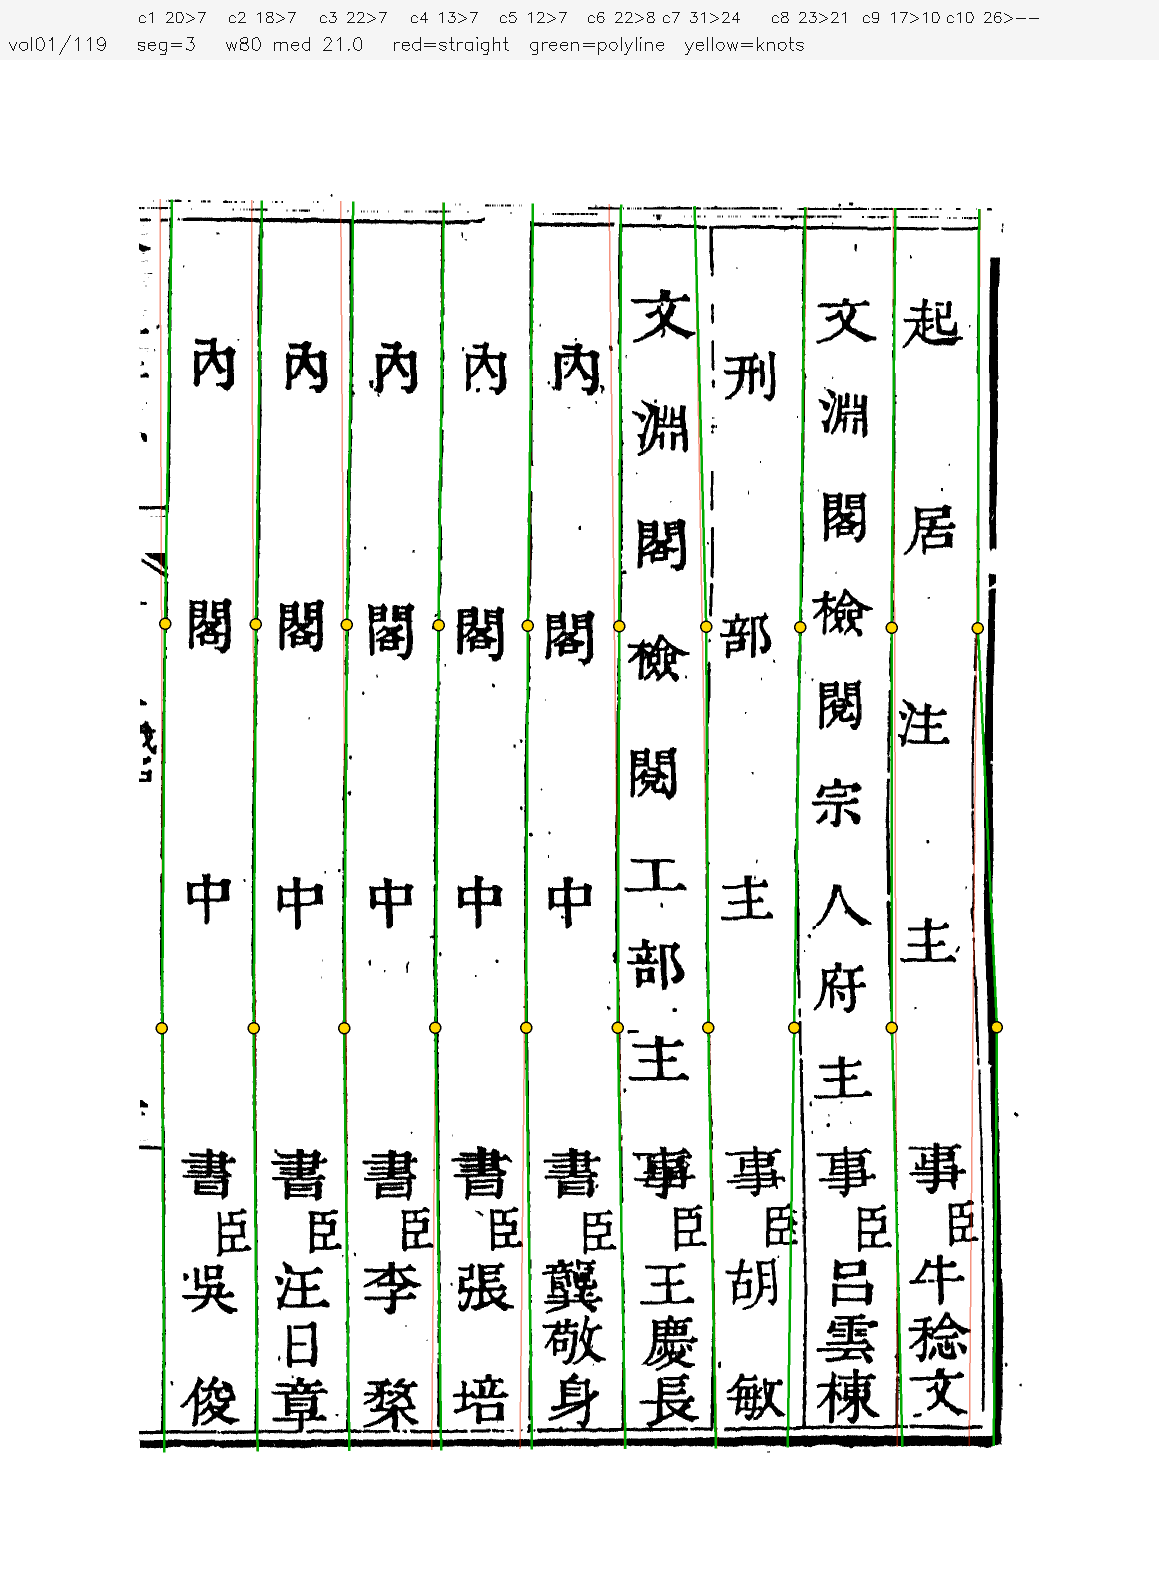
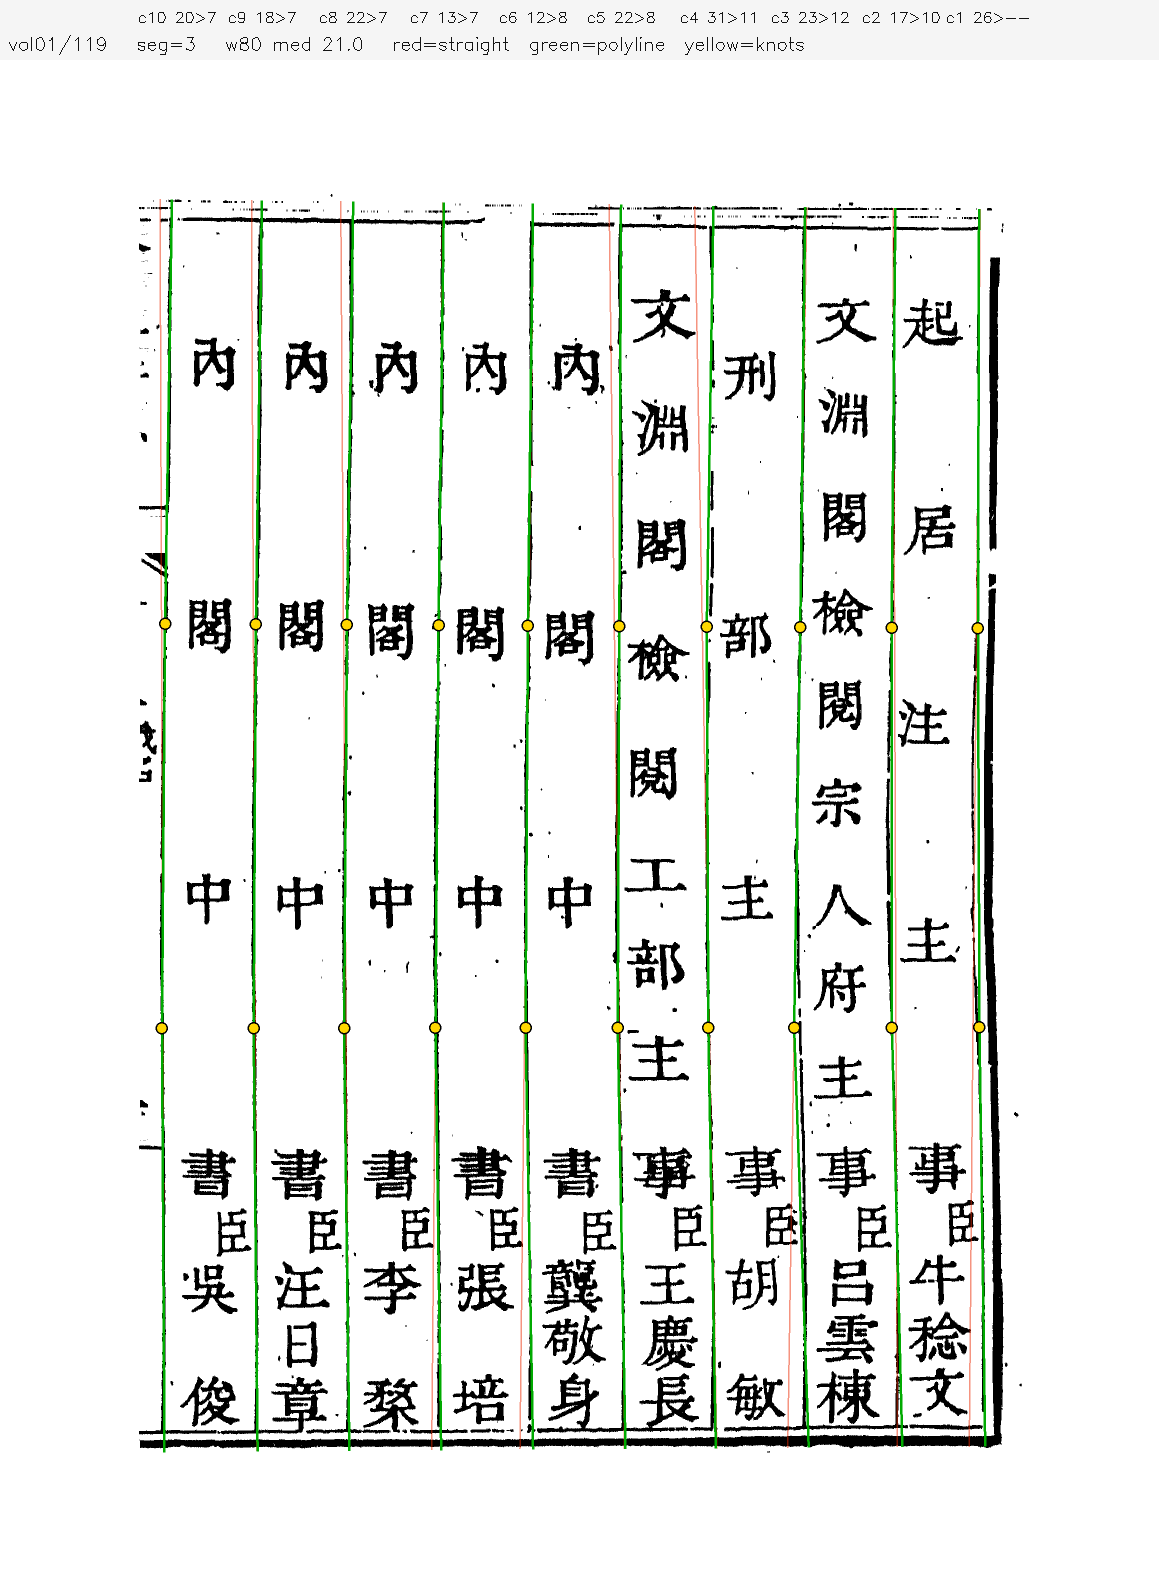
折点搜索半径 24→40 + 拟合失败线借同页折点位移；叠图编号改回从右到左
用户逐段裁决 3 页 90 段，approved 83/90，点名 7 段不对。根因两种：

1. **折点搜索半径不够**（vol01/119 L3 段3、L4 段1）。真墨离直线中位 23px（到 33）
   和 18.5px（到 55），KNOT_SEARCH=24 够不着。扫 24/40/60 定 40：这两段
   w80 19→15、22→13，离真墨 24→8px、28→7px；60 再无收益（收敛），对照页
   vol01/151、11、24、vol02/95 一个数没变。邻列界行相距 ~183px，40 不会跳到隔壁。

2. **窗口里压着两条线状墨带**（vol01/11 L1、119 L1，都是最右框线）。内框细线 +
   外框粗条一起落进窗口，合起来墨宽中位 17~21px，被 BEND_INK_W_MAX=9 全剔掉，
   有效行只剩 83/1185 和 46/1197，低于 BEND_MIN_ROWS 就退回直线、根本没拟合。
   补救：拟合失败的线借**同页已拟合线的折点位移中位数**——同一页的线是一起弯的
   （纸张/雕版形变是整页的），这个先验比退回直线强得多。119 L1 段3 由此从离真墨
   20px 修到 1px。

叠图脚本编号修正：原来按 x_old 升序标号 = 从左到右，跟项目约定（从右到左、
verticals[0] 最右）正好反着，跟用户对不上话。已改成直接用 verticals 顺序。

新增 scripts/export_vline_polyline_gold.py 导出逐段金标（含 approved 标记）。
46 passed。

Claude-Session: https://claude.ai/code/session_019hXJZqYz2HFpVTev7R4VKF

Changed region(s): [[0.8387, 0.4317, 0.8697, 0.8943], [0.5902, 0.1233, 0.6212, 0.4009], [0.6833, 0.6784, 0.7144, 0.7709]]

diff --git a/scripts/export_vline_polyline_gold.py b/scripts/export_vline_polyline_gold.py
@@ -1,0 +1,92 @@
+# -*- coding: utf-8 -*-
+"""把三段折线的拟合结果导成金标 JSON（人裁认可的线/段才标 approved）。
+
+    python scripts/export_vline_polyline_gold.py 11 119 151
+
+线号**从右到左、从 1 开始**，跟 `BorderDetectionResult.verticals` 的顺序一致
+（`verticals[0]` 最右）。每条线记：
+  `polyline`  {x_at_top, slope, k2, k3, y1, y2}  —— 三段折线参数
+  `straight`  {x_at_top, slope}                  —— 拟合前的直线，量"改前"用
+  `segments`  逐段 {w80, peak}                   —— 该段贴真墨的程度
+  `approved`  逐段 true/false                    —— 人裁：这一段对不对
+写 `open-guji-dataset/border-detection/vline-polyline/<book>_<page>.json`。
+"""
+from __future__ import annotations
+
+import argparse
+import json
+import os
+import sys
+from pathlib import Path
+
+import cv2
+import numpy as np
+
+ROOT = Path(__file__).resolve().parent.parent
+sys.path.insert(0, str(ROOT))
+from open_guji_cv.utils.border_geometry import detect_borders, gutter_projection  # noqa: E402
+
+RAW = Path(os.environ.get("GUJI_RAW", "/home/user/rebuild_src"))
+OUT = ROOT.parent / "open-guji-dataset" / "border-detection" / "vline-polyline"
+
+# 人裁结果（用户 2026-09-02 看逐列叠图给的）：线号从右数，列出**不对**的段。
+# 没列进来的线/段 = 用户明确说"其他所有线都很完美"。
+REJECTED: dict[tuple[str, str], dict[int, list[int]]] = {
+    ("vol01", "11"): {1: [1, 2, 3]},          # 整条线位置就错（列距 155 vs 183），见 README
+    ("vol01", "119"): {1: [2, 3], 3: [3], 4: [1]},
+    ("vol01", "151"): {},
+}
+
+
+def main() -> int:
+    ap = argparse.ArgumentParser(description=__doc__.split("\n")[0])
+    ap.add_argument("pages", nargs="+")
+    ap.add_argument("--book", default="vol01")
+    a = ap.parse_args()
+    OUT.mkdir(parents=True, exist_ok=True)
+    for page in a.pages:
+        gray = cv2.imread(str(RAW / a.book / f"{page}.tif"), cv2.IMREAD_GRAYSCALE)
+        if gray is None:
+            print(f"{a.book}/{page}: 原图缺失"); continue
+        h, w = gray.shape
+        binm = (gray < 128).astype(np.uint8)
+        res = detect_borders(gray, expected_cols=9)
+        rej = REJECTED.get((a.book, page), {})
+        lines = []
+        for no, (s, p) in enumerate(zip(res.verticals_straight, res.verticals), 1):
+            xc = p.x_at(h / 2.0)
+            yt, yb = float(res.top.y_at(xc)), float(res.bottom.y_at(xc))
+            ky = [yt] + p.knots() + [yb]
+            segs = []
+            for i, (aa, bb) in enumerate(zip(ky, ky[1:]), 1):
+                g = gutter_projection(binm, p.x_at, int(aa) + 10, int(bb) - 10, w)
+                segs.append(dict(seg=i,
+                                 w80=None if g is None else int(g[2]),
+                                 peak=None if g is None else round(float(g[0]), 3),
+                                 approved=i not in rej.get(no, [])))
+            lines.append(dict(
+                no=no,
+                polyline=dict(x_at_top=round(p.x_at_top, 4), slope=round(p.slope, 6),
+                              k2=None if p.k2 is None else round(p.k2, 6),
+                              k3=None if p.k3 is None else round(p.k3, 6),
+                              y1=None if p.y1 is None else round(p.y1, 2),
+                              y2=None if p.y2 is None else round(p.y2, 2)),
+                straight=dict(x_at_top=round(s.x_at_top, 4), slope=round(s.slope, 6)),
+                segments=segs))
+        doc = dict(book=a.book, page=page, width=w, height=h,
+                   coord_space="new: origin top-right, x leftward, y down; 线号从右到左从1开始",
+                   vline_segments=res.vline_segments,
+                   bend_w80_med=res.bend_w80_med, bend_w80_max=res.bend_w80_max,
+                   label_origin="human", labeled_at="2026-09-02",
+                   note="用户看逐列叠图逐段裁决；approved=false 的段见 README",
+                   lines=lines)
+        path = OUT / f"{a.book}_{page}.json"
+        path.write_text(json.dumps(doc, ensure_ascii=False, indent=1), encoding="utf-8")
+        ok = sum(1 for L in lines for sg in L["segments"] if sg["approved"])
+        tot = sum(len(L["segments"]) for L in lines)
+        print(f"{path}  approved {ok}/{tot} 段")
+    return 0
+
+
+if __name__ == "__main__":
+    raise SystemExit(main())

diff --git a/open_guji_cv/utils/border_geometry.py b/open_guji_cv/utils/border_geometry.py
@@ -531,7 +531,12 @@ BEND_W80_MED = 7.0        # 页级 w80 中位 >= 这个 => 整页三段。
                           # 射影；每条线另有"折线得分不比直线高就退回"的保险。
 BEND_W80_MAX = 24.0       # 或任一条线 w80 >= 这个（单条线跑飞的那一型：vol01/11
                           # 页级中位只有 9.5 但单条到 64，只看中位会漏）
-KNOT_SEARCH = 24          # 每个折点在直线估计的 ±这么多 px 里找
+KNOT_SEARCH = 40          # 每个折点在直线估计的 ±这么多 px 里找。
+                          # 24 不够：vol01/119 L3 段3 真墨离直线中位 23px（到 33）、
+                          # L4 段1 中位 18.5px（到 55），折点够不着。扫 24/40/60：
+                          # 40 把这两段从 w80 19/22 修到 15/13，60 再无收益（已收敛），
+                          # 对照页 vol01/151、11、24、vol02/95 一个数都没变。
+                          # 邻列界行相距 ~183px，40 不会跳到隔壁。
 KNOT_PASSES = 3           # 坐标下降轮数（实测 2 轮已收敛，第 3 轮保险）
 
 
@@ -627,6 +632,15 @@ def _aligned(binm: np.ndarray, rows: np.ndarray, xs: np.ndarray, w: int) -> int:
     return total
 
 
+def _from_knots(kx: list[float], ky: list[float]) -> VLine:
+    """四个折点 x + 四个折点 y -> (x, k1, k2, k3)，精确等价。"""
+    k1 = (kx[1] - kx[0]) / (ky[1] - ky[0])
+    k2 = (kx[2] - kx[1]) / (ky[2] - ky[1])
+    k3 = (kx[3] - kx[2]) / (ky[3] - ky[2])
+    return VLine(x_at_top=float(kx[0] - k1 * ky[0]), slope=float(k1),
+                 k2=float(k2), k3=float(k3), y1=float(ky[1]), y2=float(ky[2]))
+
+
 def fit_vlines_polyline(mask: np.ndarray, top: HLine, bottom: HLine,
                         verticals: list[VLine], w: int, h: int
                         ) -> tuple[list[VLine], int, float | None, float | None]:
@@ -659,8 +673,8 @@ def fit_vlines_polyline(mask: np.ndarray, top: HLine, bottom: HLine,
     if w80_med < BEND_W80_MED and w80_max < BEND_W80_MAX:
         return verticals, 1, w80_med, w80_max
 
-    out = []
-    for v in verticals:
+    out, shifts, failed = [], [], []
+    for vi, v in enumerate(verticals):
         xc = v.x_at(h / 2.0)
         yt, yb = float(top.y_at(xc)), float(bottom.y_at(xc))
         if yb - yt < 400:
@@ -672,6 +686,7 @@ def fit_vlines_polyline(mask: np.ndarray, top: HLine, bottom: HLine,
         rows_all, _ = _rule_rows(binm, v.x_at, int(yt), int(yb), w)
         if len(rows_all) < BEND_MIN_ROWS:
             out.append(VLine(v.x_at_top, v.slope, v.slope, v.slope, ky[1], ky[2]))
+            failed.append(vi)
             continue
 
         def seg_rows(i):
@@ -707,11 +722,22 @@ def fit_vlines_polyline(mask: np.ndarray, top: HLine, bottom: HLine,
         if new_score <= base_score:
             out.append(VLine(v.x_at_top, v.slope, v.slope, v.slope, ky[1], ky[2]))
             continue
-        k1 = (kx[1] - kx[0]) / (ky[1] - ky[0])
-        k2 = (kx[2] - kx[1]) / (ky[2] - ky[1])
-        k3 = (kx[3] - kx[2]) / (ky[3] - ky[2])
-        out.append(VLine(x_at_top=float(kx[0] - k1 * ky[0]), slope=float(k1),
-                         k2=float(k2), k3=float(k3), y1=float(ky[1]), y2=float(ky[2])))
+        shifts.append([kx[j] - v.x_at(ky[j]) for j in range(4)])
+        out.append(_from_knots(kx, ky))
+
+    # 拟合失败的线（有效行不够）借同页已拟合线的折点位移——**同一页的线是一起
+    # 弯的**（纸张/雕版形变是整页的），这个先验比"退回直线"强得多。
+    # 治的是最外侧那两条框线：窗口里同时压着内框细线和外框粗条，合起来墨宽
+    # 中位 17~21px，被 BEND_INK_W_MAX 全剔掉，有效行只剩 83/1185（vol01/11 L1）
+    # 和 46/1197（vol01/119 L1）。
+    if shifts and failed:
+        med = np.median(np.array(shifts), axis=0)
+        for i in failed:
+            v = verticals[i]
+            xc = v.x_at(h / 2.0)
+            yt, yb = float(top.y_at(xc)), float(bottom.y_at(xc))
+            ky = [yt, yt + (yb - yt) / 3.0, yt + 2.0 * (yb - yt) / 3.0, yb]
+            out[i] = _from_knots([v.x_at(ky[j]) + med[j] for j in range(4)], ky)
     return out, 3, w80_med, w80_max
 
 

diff --git a/scripts/draw_polyline_overlay.py b/scripts/draw_polyline_overlay.py
@@ -1,6 +1,7 @@
 # -*- coding: utf-8 -*-
 """整页叠图看每一列的折线效果：红=拟合前直线，绿=三段折线，黄点=折点，
-每列顶上标该列 w80 直线→折线（装下 80% 墨的最窄 x 跨度，越小越贴）。
+每条线顶上标 w80 直线→折线（装下 80% 墨的最窄 x 跨度，越小越贴）。
+线号**从右到左、从 1 开始**，跟 `verticals` 的顺序一致。
 
     python scripts/draw_polyline_overlay.py 151 119 11             # vol01
     python scripts/draw_polyline_overlay.py --book vol02 95 --scale 0.6
@@ -31,8 +32,9 @@ def work(args):
     binm = (gray < 128).astype(np.uint8)
     res = detect_borders(gray, expected_cols=9)
     img = cv2.cvtColor(gray, cv2.COLOR_GRAY2BGR)
-    pairs = sorted(zip(res.verticals_straight, res.verticals),
-                   key=lambda t: (w - 1) - t[1].x_at(h / 2.0))
+    # **从右到左编号**（项目约定：verticals 已按 x_at_top 升序 = 最右在前）。
+    # 头一版按 x_old 升序标号，标出来是从左到右、跟约定正好反着，对不上话。
+    pairs = list(zip(res.verticals_straight, res.verticals))
     labels = []
     for i, (s, p) in enumerate(pairs, 1):
         xc = p.x_at(h / 2.0)
